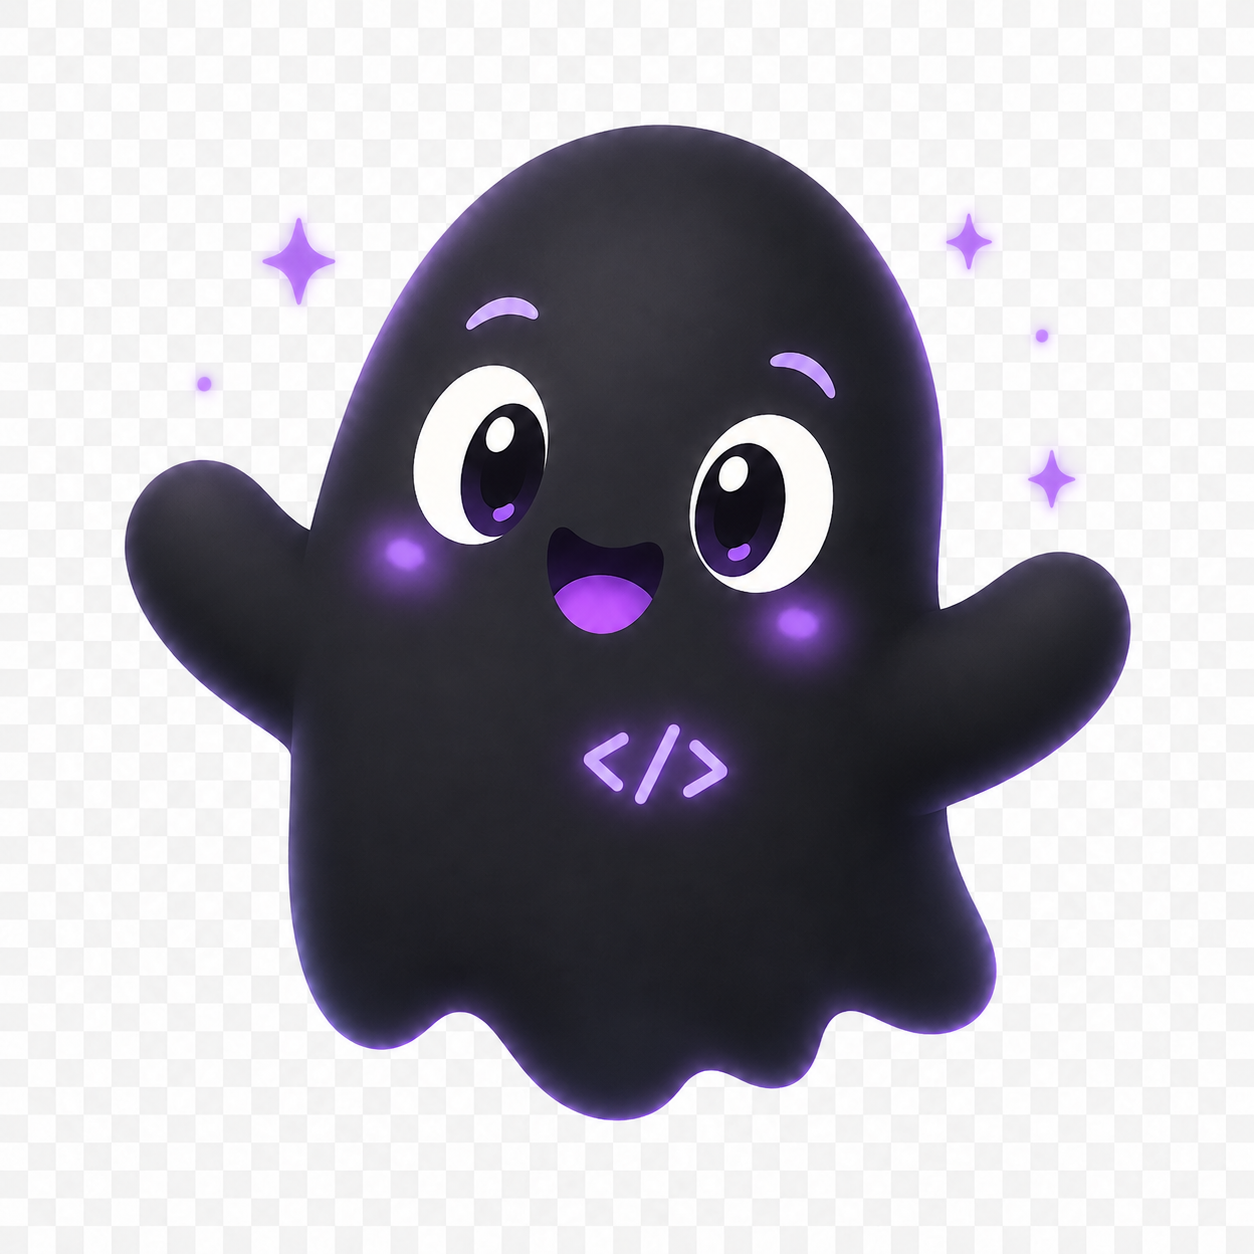
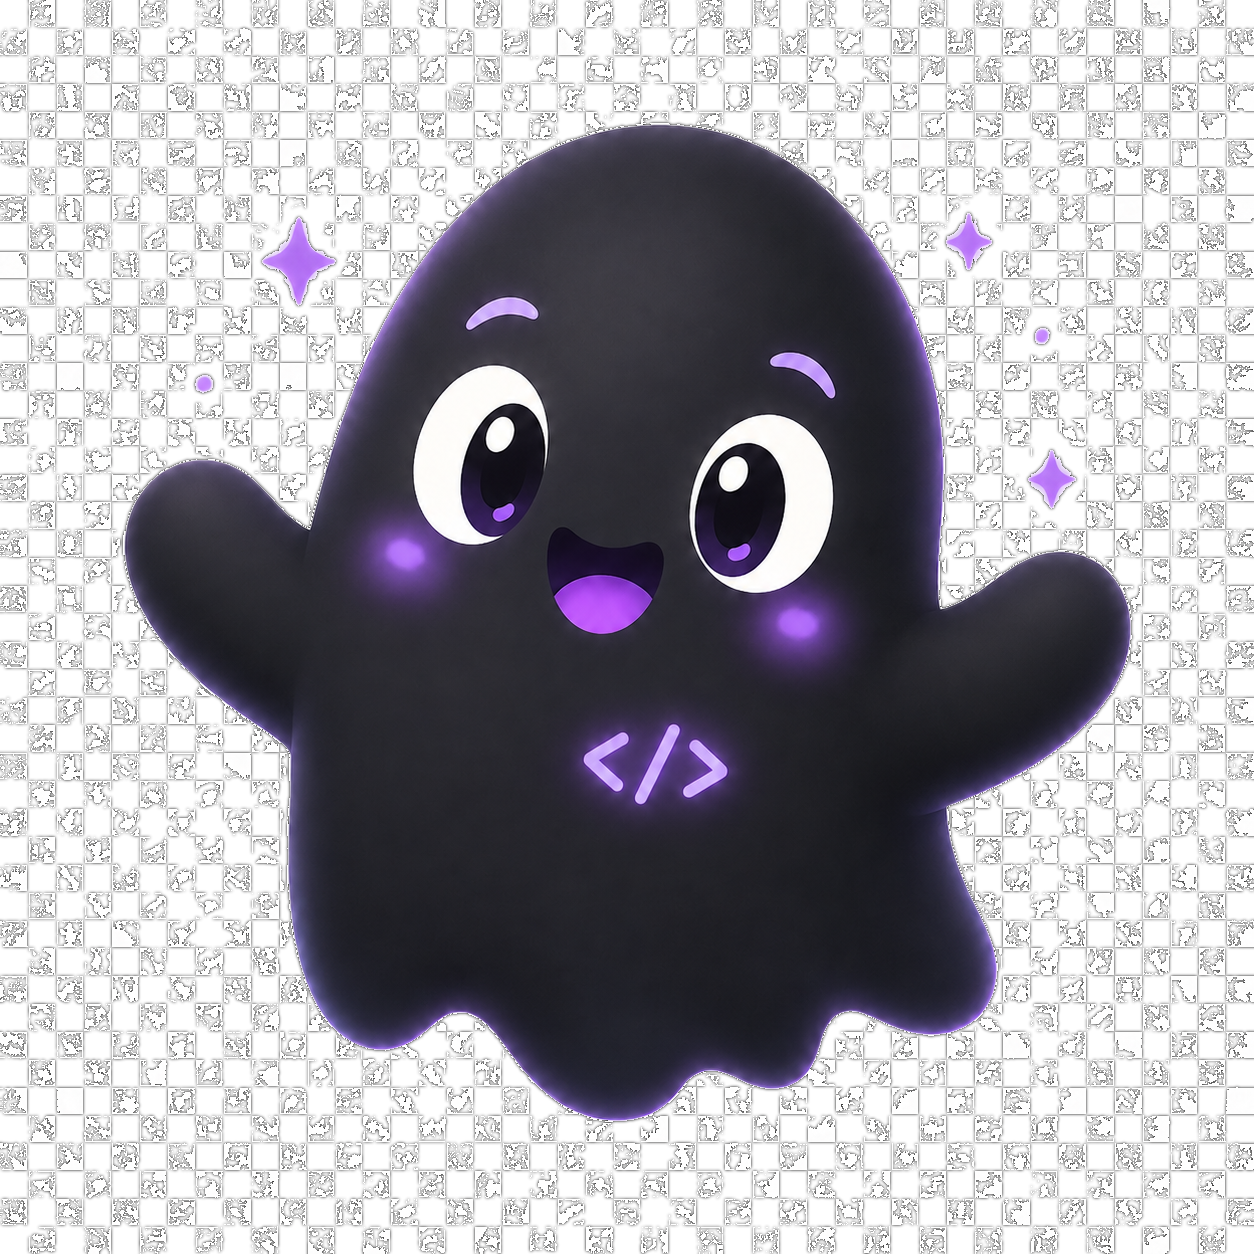
style(ghostie): remove white background from all ghostie PNGs and refactor GhostieReaction component for clean state-based video fallback

Changed region(s): [[0.0, 0.0, 1.0, 1.0]]

diff --git a/web/coderun-web/src/components/ghostie/GhostieReaction.tsx b/web/coderun-web/src/components/ghostie/GhostieReaction.tsx
@@ -1,6 +1,6 @@
 'use client';
 
-import React, { useRef, useEffect } from 'react';
+import React, { useRef, useEffect, useState } from 'react';
 import Image from 'next/image';
 import { GhostieState, ghostieAnimationByState, ghostieImageByState } from '@/lib/ghostie-assets';
 import { cn } from '@/lib/utils/cn';
@@ -21,17 +21,25 @@ export function GhostieReaction({
   className,
 }: GhostieReactionProps) {
   const videoRef = useRef<HTMLVideoElement>(null);
+  const [videoFailed, setVideoFailed] = useState(false);
   
   const animationSrc = ghostieAnimationByState[state];
   const imageSrc = ghostieImageByState[state];
 
+  // Reset videoFailed when state changes so we try loading the new state's video
   useEffect(() => {
-    if (videoRef.current && preferAnimation) {
+    setVideoFailed(false);
+  }, [state]);
+
+  useEffect(() => {
+    if (videoRef.current && preferAnimation && !videoFailed) {
       videoRef.current.play().catch(e => {
         console.warn("Auto-play prevented for Ghostie animation", e);
       });
     }
-  }, [state, preferAnimation]);
+  }, [state, preferAnimation, videoFailed]);
+
+  const showVideo = preferAnimation && !videoFailed;
 
   const Visual = () => (
     <div
@@ -39,7 +47,7 @@ export function GhostieReaction({
       style={{ width: size, height: size }}
     >
       <div className="absolute inset-0 rounded-full bg-primary/20 blur-2xl" />
-      {preferAnimation ? (
+      {showVideo ? (
         <video
           ref={videoRef}
           src={animationSrc}
@@ -48,24 +56,20 @@ export function GhostieReaction({
           loop
           muted
           playsInline
-          onError={(e) => {
-            // Fallback strategy if video fails to load
-            e.currentTarget.style.display = 'none';
-            if (e.currentTarget.nextElementSibling) {
-              (e.currentTarget.nextElementSibling as HTMLElement).style.display = 'block';
-            }
+          onError={() => {
+            console.warn(`Ghostie video failed to load for state: ${state}. Falling back to PNG.`);
+            setVideoFailed(true);
           }}
         />
-      ) : null}
-      
-      {/* Fallback image (or primary image if preferAnimation is false) */}
-      <Image
-        src={imageSrc}
-        alt={`Ghostie ${state}`}
-        width={size}
-        height={size}
-        className={cn("relative z-10 w-full h-full object-contain", preferAnimation && "hidden")}
-      />
+      ) : (
+        <Image
+          src={imageSrc}
+          alt={`Ghostie ${state}`}
+          width={size}
+          height={size}
+          className="relative z-10 w-full h-full object-contain"
+        />
+      )}
     </div>
   );
 
